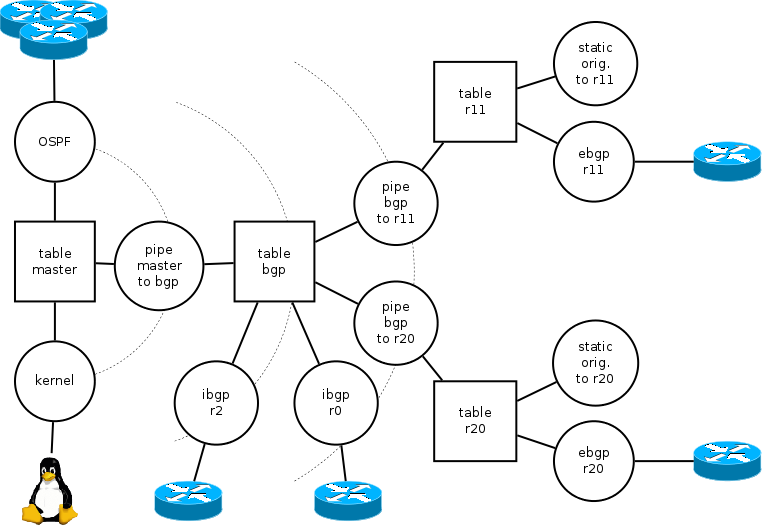
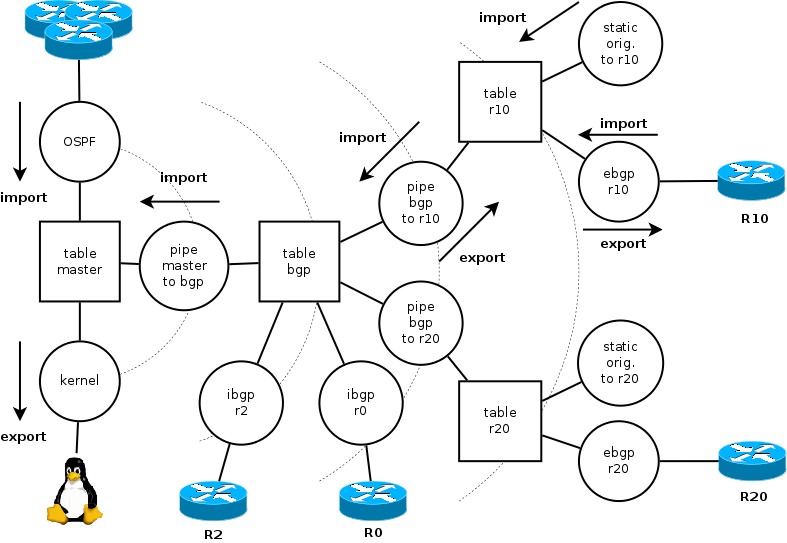
bgp-contd: asymmetric traffic, bird config diagram
Blah

Changed region(s): [[0.0, 0.0, 1.0, 1.0]]

diff --git a/bgp-contd/README.md b/bgp-contd/README.md
@@ -54,7 +54,7 @@ The output of the commands should show that `R2` knows two different routes to `
 
 For traffic to `R20`, there's only one route shown from the viewpoint of `R2`, which is pointing to `R1`, since this is the only router in the local network that has a connection to the remote `AS65020`.
 
-## Redundancy and asymmetric traffic flows
+## Asymmetric traffic flows
 
 Since there are two active network paths between `AS65000` and `AS65010`, each of the networks is free to choose which connection to use to send traffic to the other network.
 
@@ -117,11 +117,13 @@ Introducing latency for test purposes can be done with the linux traffic control
     root@R1:/# tc qdisc add dev ebgp_r10 root netem delay 100ms
     root@R10:/# tc qdisc add dev ebgp_r1 root netem delay 100ms
 
-## Moving traffic around
+## Playing with redundant paths
 
-Having redundancy in the network has the advantage that the network can survive a partial outage, which can be either planned (maintenance) or unplanned (failure of a component).
+Having redundancy in the network has the advantage that the network can survive a partial outage, which can be either planned (maintenance) or unplanned (failure of a component):
 
 ![BGP network with an inactive path](/bgp-contd/bgp-redundancy-ibgp-r0-r1.png)
+
+### Moving around traffic
 
 By disabling the BGP session on `R0` towards `R11`, we can force traffic between `AS65000` and `AS65010` to choose the route over `R1` and `R10` instead:
 
@@ -163,6 +165,10 @@ Also, the bird6 log file in `/var/log/bird/bird6.log` shows that bird gets an up
     ibgp_r0 > removed [replaced] 2001:db8:10::/48 via fe80::4ef:8ff:fe02:cef6 on lan
     kernel1 < replaced 2001:db8:10::/48 via fe80::bc5d:a8ff:fee4:c062 on lan
 
+Note that shutting down a BGP session only will stop the exchange of routing information. The link itself is not disabled in this example. This means that if for whatever reason (like manual configuration of routes) traffic would arrive over this link, it would still happily be handled by the linux kernel.
+
+### Fixing iBGP
+
 As I said a little earlier, there is still some configuration missing, although we didn't spot it yet it seems. Well, if you try to reach any router in `AS65010` from `R0`, you will see it fail:
 
     root@R0:/# traceroute r11
@@ -180,19 +186,66 @@ In the BGP introduction tutorial, we learned that iBGP sessions are used to shar
 ### Assignments
 
 Now, do the following things:
- * Add iBGP configuration to share BGP routes between `R0` and `R1`, and also between `R10` and `R11`.
- * Check that you can reach every external network from every router in all of the three networks.
- * Try disabling some of the links between routers by using the `disable`/`enable` commands on the bird command line, or by changing the `import` and `export` rules in the `protocol bgp ebgp_r*` sections in `bird6.conf`, and check if you still can reach all parts of the network.
+ * Add iBGP configuration to share BGP routes between `R0` and `R1`, and also between `R10` and `R11`. Pay special attention to the `import` and `export` rules. Use e.g. `show route protocol ibgp_r0` on `R1` to verify that it's receiving information about external routes.
 
-## Redundancy for the branch office
+        bird> show route protocol ibgp_r0
+        2001:db8:10::/48   via fe80::4ef:8ff:fe02:cef6 on lan [ibgp_r0 23:24:03 from 2001:db8::ff] (100/20) [AS65010i]
+        bird> show route export ibgp_r0
+        2001:db8:20::/48   via 2001:db8:0:5::20 on ebgp_r20 [ebgp_r20 2015-11-28] * (100) [AS65020i]
+        2001:db8:10::/48   via 2001:db8:10:4::10 on ebgp_r10 [ebgp_r10 2015-11-28] * (100) [AS65010i]
+
+ * Check that you can reach every external network from every router in all of the three networks.
+ * Try disabling some of the links between routers by using the `disable`/`enable` commands on the bird command line, and check if you still can reach all parts of the network.
+ * Change `import` and `export` filters in the `protocol bgp ebgp_r*` sections in `bird6.conf` so that you end up with a situation where all traffic is forced into an asymmetric traffic pattern in which traffic from `AS65000` to `AS65010` has to leave via `R1` to `R10`, and traffic back flows over `R11` to `R0`. Verify the changes seen in bird `show route all` output when you change filters.
+
+## A closer look at the BIRD configuration
+
+Here's a picture of the tables and protocols used in the BIRD configuration of `R1`:
+
+![BIRD protocols, tables, import and export](/bgp-contd/bird-prototable.png)
+
+As you might have noticed, I prefer using multiple internal routing tables in BIRD in favor of less complex filters. Since we're dealing with a very limited number of routes it's not a problem at all that a lot of routes are duplicated in multiple tables.
+
+If you compare this drawing to the previous one from the BGP Introduction tutorial, you'll notice an extra table, in between the eBGP sessions and the master table. Here's the corresponding part from `bird6.conf`:
+
+    ##############################################################################
+    # BGP table
+    #
+
+    # Use this routing table to gather external routes received via BGP which we
+    # want push to the kernel via our master table and to other routers in our AS
+    # via iBGP or even to other routers outside our AS again (transit), which can
+    # be connected here or to a router elsewhere on the border of our AS.
+
+    table t_bgp;
+
+    protocol pipe p_master_to_bgp {
+        table master;
+        peer table t_bgp;
+        import all;  # default
+        export none;  # default
+    }
+
+eBGP sessions are connected to `t_bgp` via an intermediate table for their own, which is used to insert routes that are originated from our own AS that we want to announce to the other side. iBGP sessions are connected to the `t_bgp` directly, as they just need to share the collection of externally learned routes with routers inside the network.
+
+### Assignments
+
+ * Compare the drawing with the configuration file of `R1`.
+
+## Redundancy for the branch office: Transit traffic
+
+The following picture is the same as the one at the beginning of this page:
 
 ![BGP network with redundant paths](/bgp-contd/bgp-redundancy.png)
 
- * two connections, disable to R1, whoops, not reachable from AS65000 any more
- * would be nice to
+Until now, we have ignored the to network, with `R20` in it.
+
+ * two connections, disable `R20` -> `R11`, whoops, not reachable from AS65010 any more
+ * would be nice to be able to
+
+### Peering and Transit
 
 
-## Peering and Transit
 
  * Peering: simply the fact that two networks have an interconnect and exchange prefixes
  * Transit: announcing received routes again to another AS
